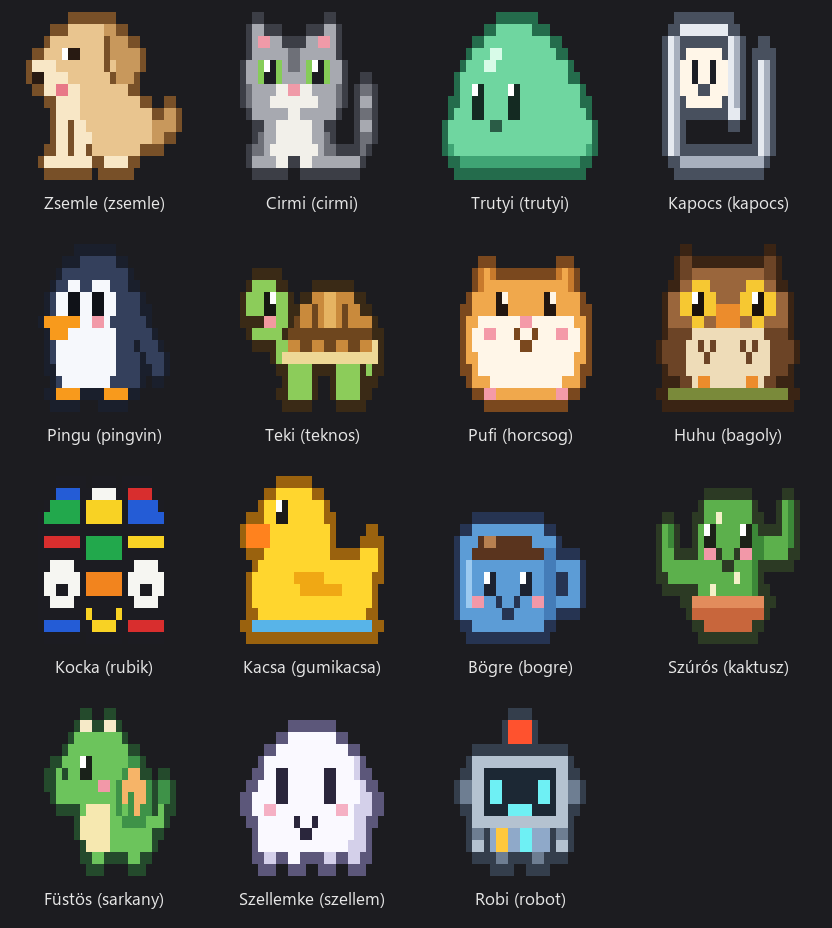
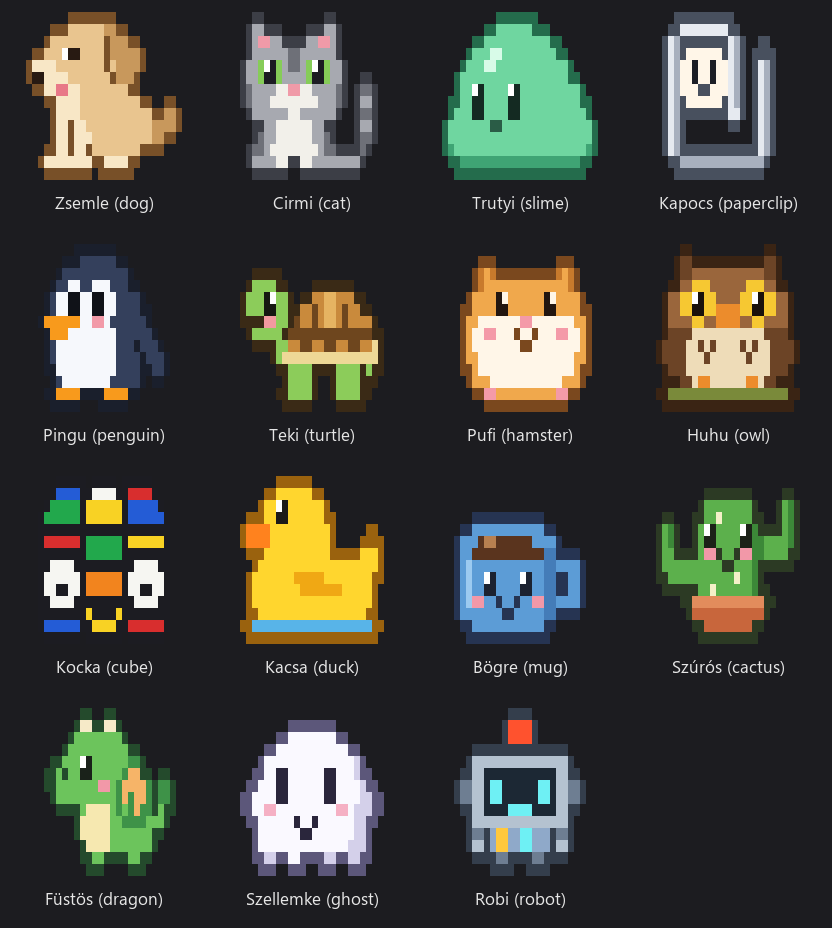
zsemle: English figure and feature names by default, README with English names

diff --git a/plugins/zsemle/hooks/register.tsx b/plugins/zsemle/hooks/register.tsx
@@ -98,7 +98,7 @@ import {
   weekChart,
 } from './features'
 import type { Budget, Feature } from './features'
-import { asSkin, DEFAULT_SKIN, findSkin, labelOf, nextSkin, SKIN_IDS, skinOf, voiceOf } from './skins'
+import { asSkin, DEFAULT_SKIN, findSkin, labelOf, nextSkin, SKIN_IDS, skinOf, skinWord, voiceOf } from './skins'
 import type { SkinId, Voice } from './skins'
 
 const limits = atom({ plugin: 'zsemle', key: 'limits' } as const, [] as Limit[])
@@ -120,7 +120,7 @@ function help(): string {
       '/zsemle ok            got it (hides the bubble)',
       '/zsemle limit         every limit, the pace, the context and the cost right now',
       '/zsemle skin          figure picker pane (also in /config: zsemle.skin)',
-      `/zsemle skin <name>   figure: ${SKIN_IDS.join(', ')}`,
+      `/zsemle skin <name>   figure: ${SKIN_IDS.map(skinWord).join(', ')}`,
       '/zsemle stats         stats for the day',
       '/zsemle mute          sound off (the button too)',
       '/zsemle sound         sound back on',
@@ -746,7 +746,7 @@ async function summarize($: EngineInterface): Promise<string> {
 /** The commands of the optional features; null when the argument is none of them. */
 async function featureCommands($: EngineInterface, arg: string, raw: string): Promise<string | null> {
   if (['kapcsolok', 'kapcsolók', 'features', 'funkciok', 'funkciók'].includes(arg)) {
-    const list = FEATURES.map(f => `  ${S.features[f] ? tr('be', 'on ') : tr('ki', 'off')}  ${featureWord(f).padEnd(14)} ${featureLabel(f)}`).join('\n')
+    const list = FEATURES.map(f => `  ${S.features[f] ? tr('be', 'on ') : tr('ki', 'off')}  ${tr(featureWord(f), f).padEnd(14)} ${featureLabel(f)}`).join('\n')
     return `${tr('Funkciók (/zsemle kapcsolo <név> ki|be):', 'Features (/zsemle feature <name> off|on):')}\n${list}`
   }
   const sw = /^(?:kapcsolo|kapcsoló|feature|funkcio|funkció)\s+(\S+)\s+(ki|be|off|on)$/.exec(arg)
@@ -1153,7 +1153,7 @@ export const register: Register = (on, options) => {
     const now = await $.clock.now()
     if (arg === 'skin' || arg === 'skinek' || arg === 'skins' || arg === 'figura') {
       const opened = await $.ui.open({ id: SKIN_PANE, title: tr('Zsemle figurák', 'Zsemle figures') })
-      const list = SKIN_IDS.map(id => `  ${id === S.skin ? '*' : ' '} ${id.padEnd(8)} ${labelOf(id)}`).join('\n')
+      const list = SKIN_IDS.map(id => `  ${id === S.skin ? '*' : ' '} ${skinWord(id).padEnd(10)} ${labelOf(id)}`).join('\n')
       const where = opened.isPlaced === false ? '' : tr(' A panelen kattintással is választhatsz.', ' You can also click one in the pane.')
       return { text: `${tr('Figurák (/zsemle skin <név>):', 'Figures (/zsemle skin <name>):')}\n${list}\n${where}`.trimEnd() }
     }
@@ -1161,7 +1161,7 @@ export const register: Register = (on, options) => {
       const word = arg.slice(arg.indexOf(' ') + 1)
       const id = ['kovetkezo', 'következő', 'next'].includes(word) ? nextSkin(S.skin) : findSkin(word)
       if (id === null) {
-        return { text: tr(`Nincs ilyen figura: "${word}". Választható: ${SKIN_IDS.join(', ')}`, `No such figure: "${word}". Pick one of: ${SKIN_IDS.join(', ')}`) }
+        return { text: tr(`Nincs ilyen figura: "${word}". Választható: ${SKIN_IDS.join(', ')}`, `No such figure: "${word}". Pick one of: ${SKIN_IDS.map(skinWord).join(', ')}`) }
       }
       await chooseSkin($, id)
       return { text: tr(`${voiceOf(id).name} lett a társad: ${labelOf(id)}.`, `${voiceOf(id).name} is your companion now: ${labelOf(id)}.`) }

diff --git a/plugins/zsemle/hooks/skins.ts b/plugins/zsemle/hooks/skins.ts
@@ -225,6 +225,30 @@ export function skinOf(id: SkinId): Skin {
   return SKINS[id] ?? ZSEMLE
 }
 
+/** Each figure's English word: what an English user types and sees (`/zsemle skin penguin`). */
+const EN_WORDS: Record<string, string> = {
+  zsemle: 'dog',
+  cirmi: 'cat',
+  trutyi: 'slime',
+  kapocs: 'paperclip',
+  pingvin: 'penguin',
+  teknos: 'turtle',
+  horcsog: 'hamster',
+  bagoly: 'owl',
+  rubik: 'cube',
+  gumikacsa: 'duck',
+  bogre: 'mug',
+  kaktusz: 'cactus',
+  sarkany: 'dragon',
+  szellem: 'ghost',
+  robot: 'robot',
+}
+
+/** The word a figure goes by in the current language: its id in Hungarian, its English word in English. */
+export function skinWord(id: SkinId): string {
+  return lang() === 'en' ? (EN_WORDS[id] ?? id) : id
+}
+
 /** The skin's voice in the current language. */
 export function voiceOf(id: SkinId): Voice {
   return lang() === 'en' ? skinOf(id).voiceEn : skinOf(id).voice
@@ -243,7 +267,7 @@ export function findSkin(word: string): SkinId | null {
   if (w === '') return null
   for (const id of SKIN_IDS) {
     const skin = skinOf(id)
-    if (fold(id) === w || skin.aliases.some(a => fold(a) === w) || fold(skin.voice.name) === w) return id
+    if (fold(id) === w || fold(EN_WORDS[id] ?? '') === w || skin.aliases.some(a => fold(a) === w) || fold(skin.voice.name) === w) return id
     if (fold(skin.labelEn.split(',')[0] ?? '') === w) return id
   }
   return null

diff --git a/plugins/zsemle/tests/skins-limits.test.ts b/plugins/zsemle/tests/skins-limits.test.ts
@@ -318,3 +318,25 @@ describe('sounds', () => {
     for (const id of SKIN_IDS) expect(skinOf(id).voiceEn.sound).toBe(skinOf(id).voice.sound)
   })
 })
+
+describe('english words', () => {
+  const EN = { options: { language: 'en' } } as const
+
+  test('English users see and type English figure and feature names', EN, async ($, on) => {
+    stubEngine(on)
+    const help = await $.command.run({ command: 'zsemle', args: '' } as never)
+    expect(textOf(help)).toContain('figure: dog, cat, slime, paperclip, penguin, turtle, hamster, owl')
+    const list = await $.command.run({ command: 'zsemle', args: 'skin' } as never)
+    expect(textOf(list)).toContain('penguin')
+    expect(textOf(list)).not.toContain(' pingvin ')
+    const worn = await $.command.run({ command: 'zsemle', args: 'skin hamster' } as never)
+    expect(textOf(worn)).toContain('Pufi is your companion now')
+    const features = await $.command.run({ command: 'zsemle', args: 'features' } as never)
+    expect(textOf(features)).toContain('commitGuard')
+    expect(textOf(features)).not.toContain('commitor')
+    const off = await $.command.run({ command: 'zsemle', args: 'feature commitGuard off' } as never)
+    expect(textOf(off)).toContain(': off.')
+    const bad = await $.command.run({ command: 'zsemle', args: 'skin unicorn' } as never)
+    expect(textOf(bad)).toContain('Pick one of: dog, cat')
+  })
+})

diff --git a/plugins/zsemle/README.md b/plugins/zsemle/README.md
@@ -28,23 +28,25 @@ The same figures as the terminal draws them (quadrant-block characters, two colo
 
 ![All figures in the terminal](docs/figures-dark.png)
 
-| id | figure | its own trick |
+| name | figure | its own trick |
 | --- | --- | --- |
-| `zsemle` | golden retriever puppy (default) | wags its tail, barks when a long turn ends |
-| `cirmi` | grey tabby cat | hisses at a blocked write |
-| `trutyi` | jelly slime | wobbles when happy |
-| `kapocs` | paperclip with a face | hops |
-| `pingvin` | penguin | waddles when your tests pass |
-| `teknos` | turtle | pulls its head in during turns longer than 3 minutes |
-| `horcsog` | hamster | runs in its wheel while the model works |
-| `bagoly` | owl | after 22:00 it tells you to close the day |
-| `rubik` | Rubik's cube with eyes | twists |
-| `gumikacsa` | rubber duck | listens to your bug explanation |
-| `bogre` | coffee mug | steams while the model works, empties as the limit runs low |
-| `kaktusz` | potted cactus | blooms on green tests, wilts on errors |
-| `sarkany` | little dragon | breathes fire after a deploy |
-| `szellem` | ghost | fades when you are idle |
-| `robot` | robot | its antenna blinks while the model works |
+| `dog` | golden retriever puppy (default) | wags its tail, barks when a long turn ends |
+| `cat` | grey tabby cat | meows, hisses at a blocked write |
+| `slime` | jelly slime | wobbles when happy |
+| `paperclip` | paperclip with a face | hops |
+| `penguin` | penguin | waddles when your tests pass |
+| `turtle` | turtle | pulls its head in during turns longer than 3 minutes |
+| `hamster` | hamster | runs in its wheel while the model works |
+| `owl` | owl | after 22:00 it tells you to close the day |
+| `cube` | Rubik's cube with eyes | clicks |
+| `duck` | rubber duck | quacks, listens to your bug explanation |
+| `mug` | coffee mug | steams while the model works, empties as the limit runs low |
+| `cactus` | potted cactus | blooms on green tests, wilts on errors |
+| `dragon` | little dragon | roars, breathes fire after a deploy |
+| `ghost` | ghost | fades when you are idle |
+| `robot` | robot | beeps, its antenna blinks while the model works |
+
+Every figure has its own sound (barks, meows, quacks, hoots, a roar, beeps...), played when a long turn ends (`/zsemle bark` to test it, `/zsemle mute` to silence it).
 
 Every figure has 9 poses (awake, blink, speaking, yawn, sad, happy, alert, angry, tired):
 
@@ -54,7 +56,7 @@ and some have special frames (work animation, long turn, fatigue levels):
 
 ![Special frames](docs/extras.png)
 
-Switch figures with `/zsemle skin` (a pane with previews: click one), `/zsemle skin cat` (names and aliases work in English and Hungarian), the bubble's `skin` button, or the `zsemle.skin` row in `/config`.
+Switch figures with `/zsemle skin` (a pane with previews: click one), `/zsemle skin penguin`, the bubble's `skin` button, or the `zsemle.skin` row in `/config` (there the figures go by their short ids: `zsemle` is the dog, `pingvin` the penguin and so on; `/zsemle skin` lists both).
 
 ## What it watches
 
@@ -74,7 +76,7 @@ Also: a sound when a turn longer than 3 minutes finishes, a content guard (curly
 
 ## Optional features
 
-All on by default; switch any of them off in `/config` or with `/zsemle feature <name> off`.
+All on by default; switch any of them off in `/config` or with `/zsemle feature <name> off`, for example `/zsemle feature commitGuard off`. `/zsemle features` lists them with their state.
 
 | feature | what it does |
 | --- | --- |
@@ -115,12 +117,12 @@ Run it from a local folder instead (for hacking on it): clone this repo and star
 | `/zsemle` | | status and help |
 | `/zsemle limit` | | every window, the pace, today's budget, the context and the cost |
 | `/zsemle skin` | | the figure picker pane |
-| `/zsemle skin <name>` | `/zsemle skin <név>` | wear a figure (`next` steps through them) |
+| `/zsemle skin <name>` | `/zsemle skin <név>` | wear a figure, e.g. `penguin` (`next` steps through them) |
 | `/zsemle ask <q>` | `/zsemle kerdes <k>` | ask Zsemle (small model) |
 | `/zsemle week` | `/zsemle heti` | weekly activity chart |
 | `/zsemle summary` | `/zsemle napzaro` | a summary of this session (small model) |
 | `/zsemle features` | `/zsemle kapcsolok` | the optional features and their state |
-| `/zsemle feature <name> off/on` | `/zsemle kapcsolo <név> ki/be` | switch one |
+| `/zsemle feature <name> off/on` | `/zsemle kapcsolo <név> ki/be` | switch one, e.g. `commitGuard` |
 | `/zsemle stats` | `/zsemle stat` | today's stats |
 | `/zsemle ok` | | "got it": hides the bubble until there is news (or double-click the head) |
 | `/zsemle mute` / `sound` | `nemit` / `hang` | sound off/on |
@@ -138,7 +140,7 @@ In `/config`, or in `~/.claude/settings.json` under `pluginConfigs.zsemle.option
 | option | default | what |
 | --- | --- | --- |
 | `language` | `en` | `en` or `hu` |
-| `skin` | `zsemle` | the default figure |
+| `skin` | `zsemle` | the default figure, by its short id (`zsemle` dog, `cirmi` cat, `trutyi` slime, `kapocs` paperclip, `pingvin` penguin, `teknos` turtle, `horcsog` hamster, `bagoly` owl, `rubik` cube, `gumikacsa` duck, `bogre` mug, `kaktusz` cactus, `sarkany` dragon, `szellem` ghost, `robot` robot) |
 | `guardDashes` | `false` | the content guard also blocks em and en dashes |
 | `reflectQueue` | empty | a log file whose non-empty lines are unprocessed `/reflect` markers (empty: no reminder) |
 | `projectTable` | empty | a markdown file with a project table (`\| [[link\|Name]] \| status \| ... \|`); the morning brief lists rows marked `deploy-var` or `blokkolt` |
